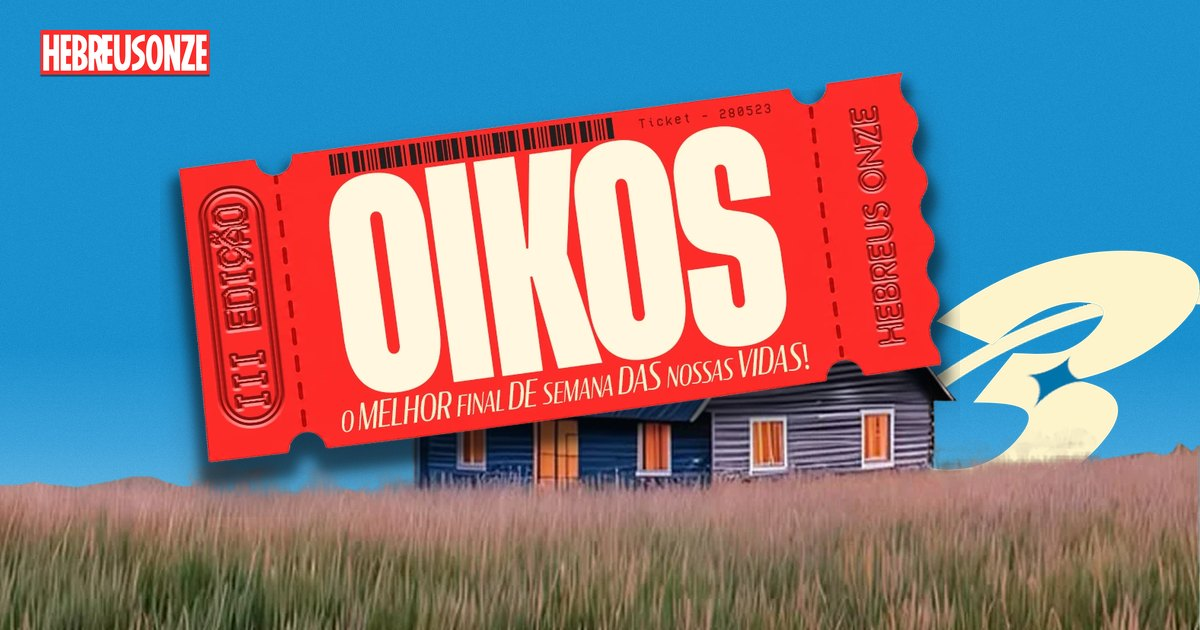
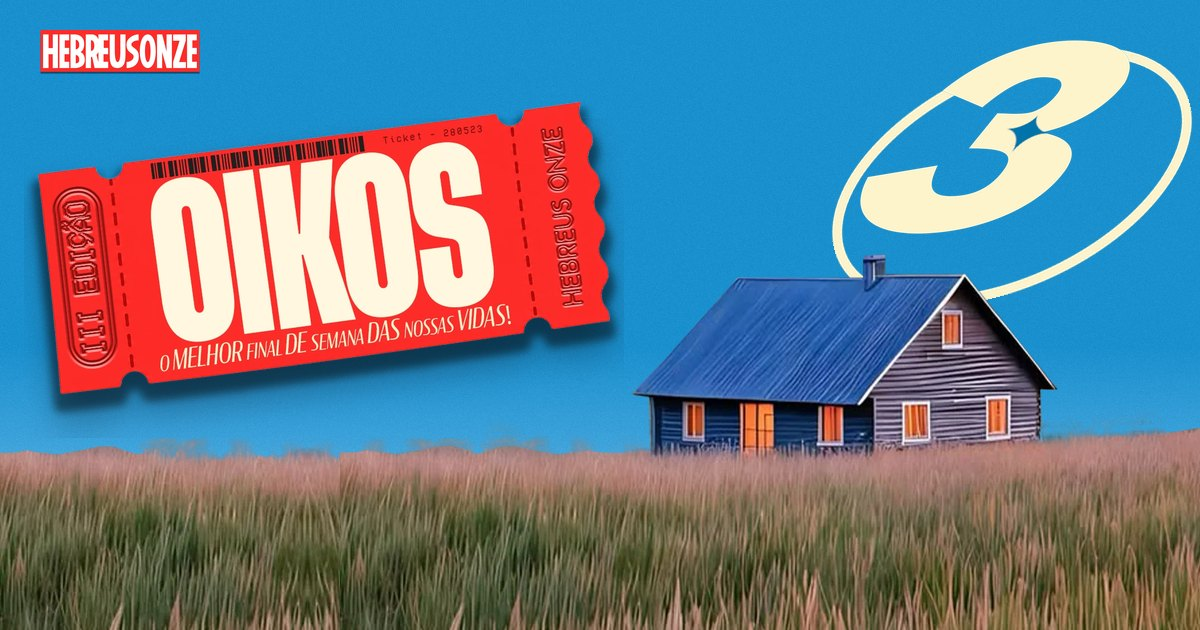
Mostra a casa inteira no topo em qualquer largura de tela
A faixa da casa passa a ter a altura natural da imagem (até 600px), sem
corte no telhado. Em telas largas, uma faixa de campo gerada da própria
imagem continua a grama nas laterais. No celular a casa fica maior e
afastada dos botões. A imagem de compartilhamento também mostra a casa
completa.

Claude-Session: https://claude.ai/code/session_017zyRuxfzvg8sjuTHWqCQFy

diff --git a/css/estilo.css b/css/estilo.css
@@ -337,19 +337,32 @@ button { font: inherit; }
 
 /* ---------- 1 · Hero: o céu do cartaz ---------- */
 .hero {
-  --casa-h: clamp(210px, 30vw, 440px);
+  /* Altura da faixa da casa = altura natural da imagem (1080 × 459) até 600px: a casa nunca é cortada */
+  --casa-h: clamp(200px, 42.5vw, 600px);
   position: relative; isolation: isolate; overflow: hidden;
   display: flex; flex-direction: column;
   padding-top: calc(var(--topo-h) + env(safe-area-inset-top, 0px));
-  padding-bottom: calc(var(--casa-h) * .72);
+  padding-bottom: calc(var(--casa-h) * .8);
   background: linear-gradient(180deg, var(--ceu) 0%, var(--ceu) 60%, var(--ceu-medio) 72%, var(--ceu-claro) 82%, var(--ceu-nevoa) 91%, var(--ceu-horizonte) 100%);
   color: var(--papel);
 }
 .hero__midia { position: absolute; inset: 0; z-index: -4; }
 .hero__midia > video, .hero__midia > img { position: absolute; inset: 0; width: 100%; height: 100%; object-fit: cover; }
 .hero__sombra { display: none; position: absolute; inset: 0; z-index: -3; background: linear-gradient(180deg, rgb(0 116 170 / .55) 0%, rgb(0 116 170 / .35) 45%, rgb(0 116 170 / .8) 100%); }
-.hero__casa { position: absolute; z-index: -1; left: 0; right: 0; bottom: 0; height: var(--casa-h); pointer-events: none; }
-.hero__casa img { width: 100%; height: 100%; object-fit: cover; object-position: 50% 100%; }
+.hero__casa {
+  position: absolute; z-index: -1; left: 0; right: 0; bottom: 0;
+  height: var(--casa-h);
+  overflow: hidden; pointer-events: none;
+  /* Campo contínuo nas laterais quando a tela é mais larga que a imagem */
+  background: url("../assets/img/oikos/campo.webp") left bottom / auto 50.3% repeat-x;
+}
+.hero__casa img {
+  position: absolute; bottom: 0; left: 56%;
+  width: auto; max-width: none; height: 100%;
+  transform: translateX(-56%);
+  -webkit-mask: linear-gradient(90deg, #0000, #000 6%, #000 94%, #0000);
+          mask: linear-gradient(90deg, #0000, #000 6%, #000 94%, #0000);
+}
 .hero__tres-grande { position: absolute; z-index: -2; pointer-events: none; right: -14vw; bottom: calc(var(--casa-h) * .22); width: min(78vw, 680px); aspect-ratio: 1; }
 .hero__tres-grande img { position: absolute; height: auto; }
 .hero__anel { width: 118%; left: -9%; top: 18%; transform: rotate(-14deg); }
@@ -424,7 +437,7 @@ button { font: inherit; }
 @media (max-width: 999px) {
   .hero__tres-grande { display: none; }
   .hero__tres { display: block; position: absolute; z-index: 1; width: 22%; height: auto; right: -2%; top: -14%; transform: rotate(-8deg); filter: drop-shadow(0 10px 16px rgb(10 26 43 / .3)); }
-  .hero { padding-bottom: calc(var(--casa-h) * .98); }
+  .hero { --casa-h: clamp(240px, 42.5vw, 600px); padding-bottom: calc(var(--casa-h) * 1.08); }
 }
 
 /* ---------- Ingresso de informações (eco do bilhete oficial) ---------- */
